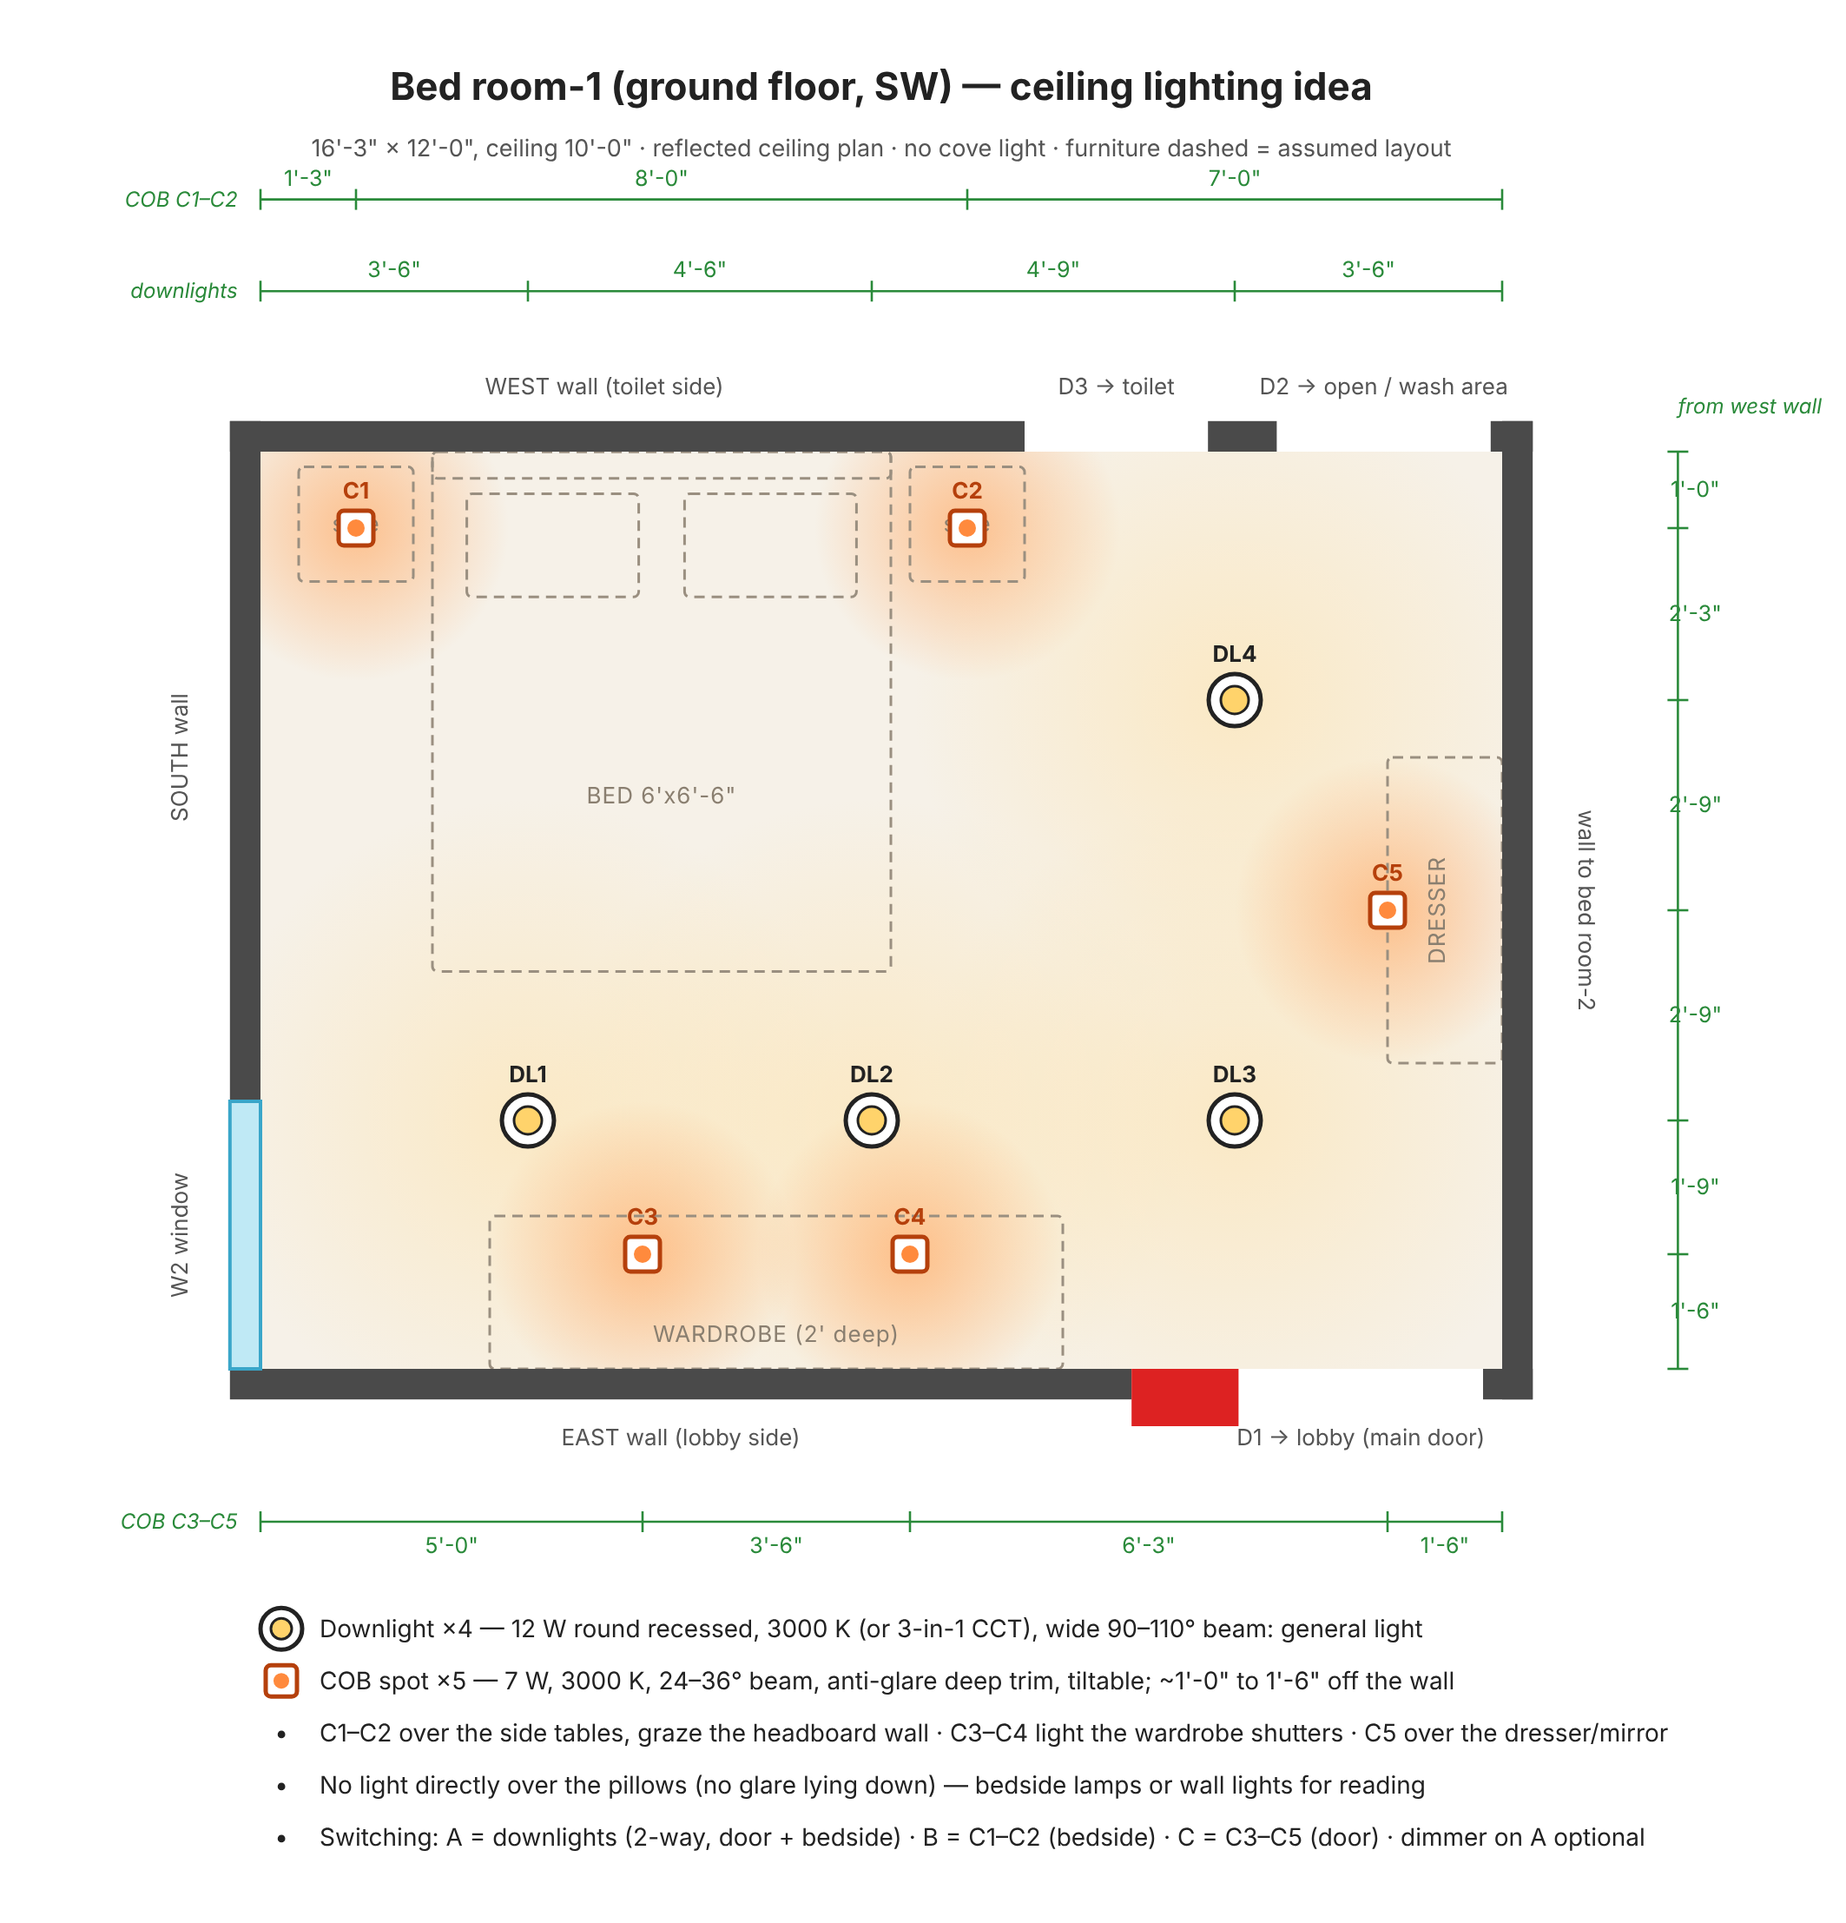
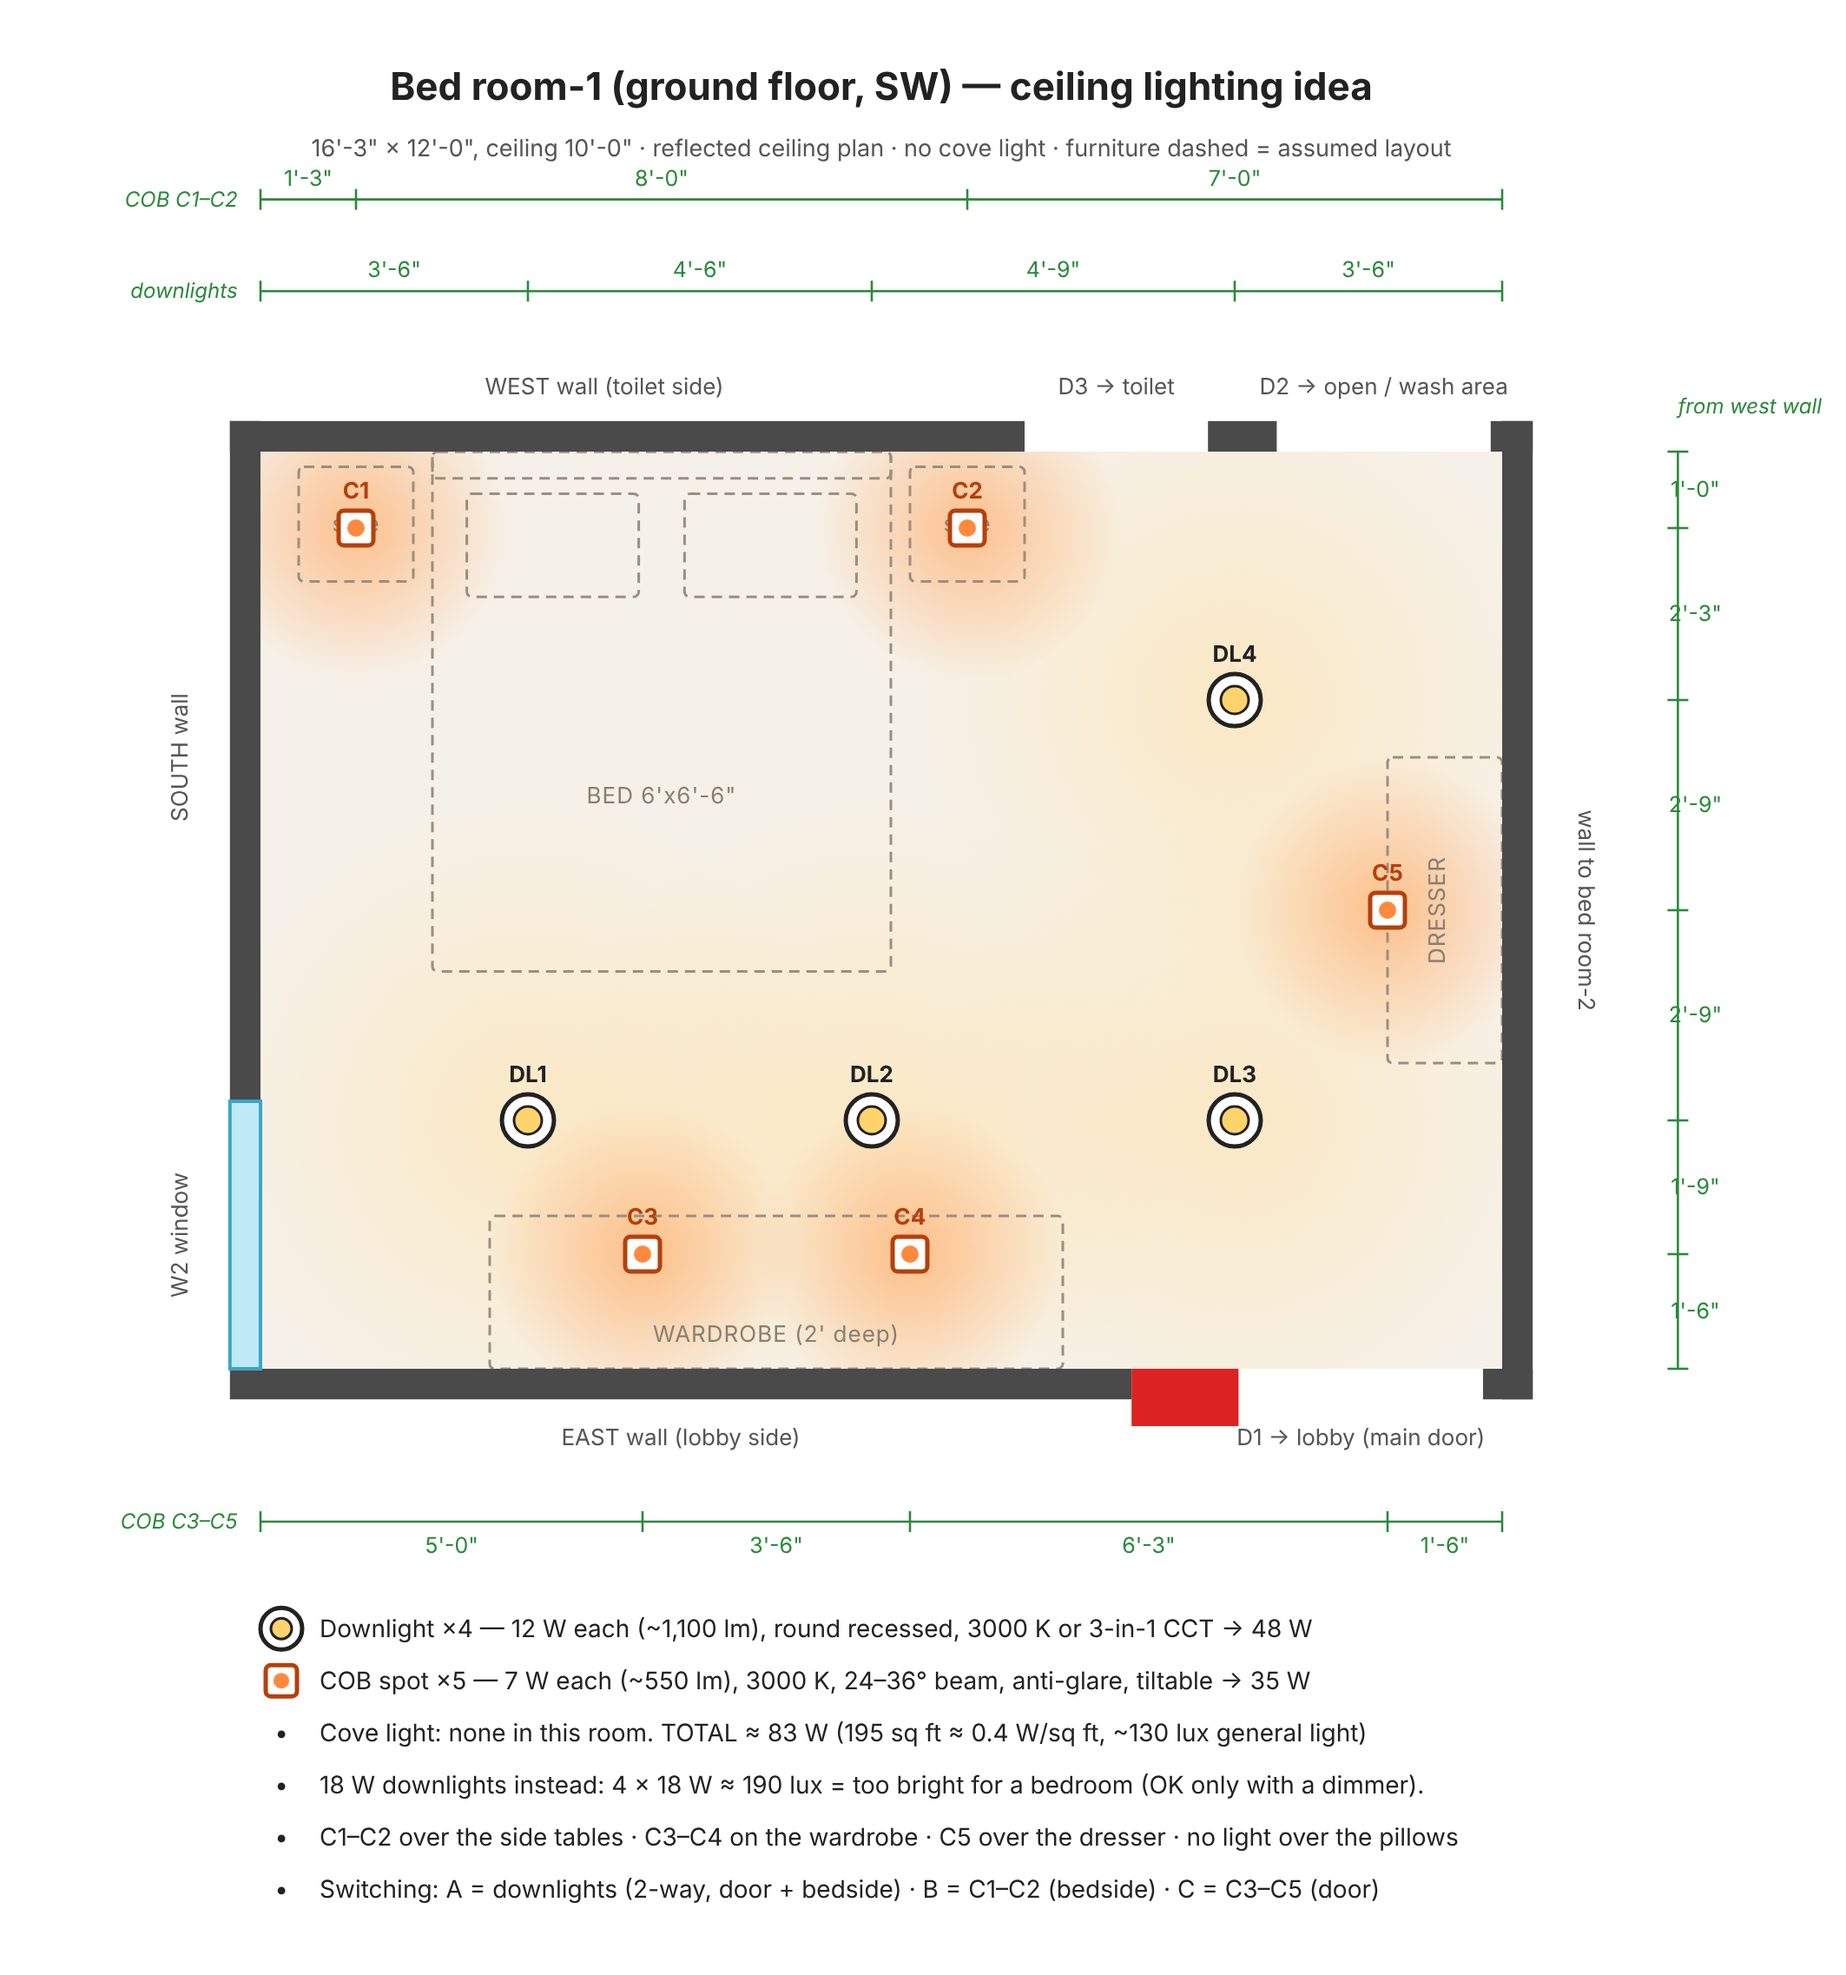
docs(ideas): add light counts and wattage to bed room-1 lighting plan
Claude-Session: https://claude.ai/code/session_01NB31rmuUVJUG6RumaKdizv

diff --git a/ideas/ground_bedroom1_ceiling_lights.py b/ideas/ground_bedroom1_ceiling_lights.py
@@ -138,11 +138,12 @@ dim_h([0, 5.0, 8.5, 14.75, L], W + 2.0, 18)
 add(f'<text x="{X(-0.3)}" y="{Y(W+2.0)+4}" class="dimlab" text-anchor="end">COB C3–C5</text>')
 lx, ly = X(0), Y(W + 3.4)
 leg = [
-    ("dl", "Downlight ×4 — 12 W round recessed, 3000 K (or 3-in-1 CCT), wide 90–110° beam: general light"),
-    ("cob", "COB spot ×5 — 7 W, 3000 K, 24–36° beam, anti-glare deep trim, tiltable; ~1'-0\" to 1'-6\" off the wall"),
-    ("txt", "C1–C2 over the side tables, graze the headboard wall · C3–C4 light the wardrobe shutters · C5 over the dresser/mirror"),
-    ("txt", "No light directly over the pillows (no glare lying down) — bedside lamps or wall lights for reading"),
-    ("txt", "Switching: A = downlights (2-way, door + bedside) · B = C1–C2 (bedside) · C = C3–C5 (door) · dimmer on A optional"),
+    ("dl", "Downlight ×4 — 12 W each (~1,100 lm), round recessed, 3000 K or 3-in-1 CCT  →  48 W"),
+    ("cob", "COB spot ×5 — 7 W each (~550 lm), 3000 K, 24–36° beam, anti-glare, tiltable  →  35 W"),
+    ("txt", "Cove light: none in this room.   TOTAL ≈ 83 W  (195 sq ft ≈ 0.4 W/sq ft, ~130 lux general light)"),
+    ("txt", "18 W downlights instead: 4 × 18 W ≈ 190 lux = too bright for a bedroom (OK only with a dimmer)."),
+    ("txt", "C1–C2 over the side tables · C3–C4 on the wardrobe · C5 over the dresser · no light over the pillows"),
+    ("txt", "Switching: A = downlights (2-way, door + bedside) · B = C1–C2 (bedside) · C = C3–C5 (door)"),
 ]
 for i, (k, t) in enumerate(leg):
     yy = ly + i * 30
